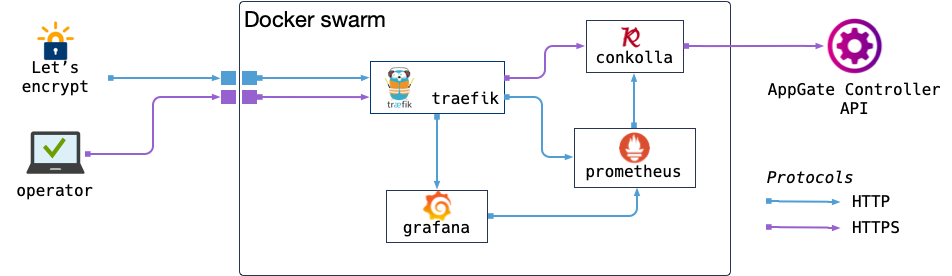
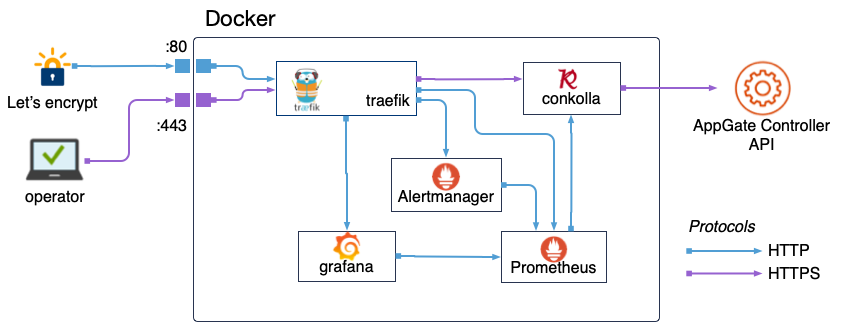
alertmanager

diff --git a/README.md b/README.md
@@ -57,8 +57,7 @@ Docker stack deployed on docker swarm
 ├── letsencrypt
 ├── prometheus
 │   ├── alert.rules
-│   ├── appgate.rules
-│   ├── conkolla.rules
+│   ├── recording.rules
 │   └── prometheus.yml
 ```
 
@@ -72,6 +71,7 @@ The subsystems will be accessible from the host's IP address. Every subsystem is
 	* agtraefik.`${DOMAIN}`
 	* agconkolla.`${DOMAIN}`
 	* agprometheus.`${DOMAIN}`
+	* agalertmanager.`${DOMAIN}`
 	* aggrafana.`{DOMAIN}`
 
 
@@ -268,6 +268,7 @@ If you want to use a single htpasswd file, then create symlinks to it with the s
 * create htpasswd users: 
    * `htpasswd -c htapass/grafana_users admin`
    * `htpasswd -c htapass/prometheus_users admin`
+   * `htpasswd -c htapass/alertmanager_users admin`
    * `htpasswd -c htapass/conkolla_users admin`
    * `htpasswd -c htapass/traefik_users admin`
 
@@ -286,6 +287,7 @@ After the deployment has successfully finished you might give it a minute so tra
 * https://agtraefik.`${DOMAIN}`/dashboard/
 * https://agconkolla.`{DOMAIN}`
 * https://agprometheus.`${DOMAIN}`
+* https://agalertmanager.`${DOMAIN}`
 * https://aggrafana.`{DOMAIN}`
 	
 
